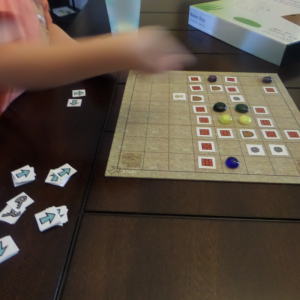
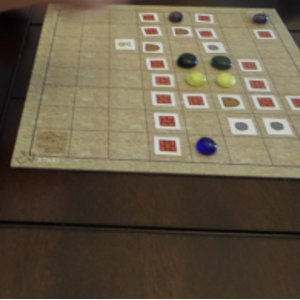
Cropped a pic; updated text

diff --git a/fb.html b/fb.html
@@ -90,7 +90,8 @@
         </div>
         <div class="row">
             <p class="col-md-4">Click on the tent to play a silly game!
-                    It's not like Fair and Beyond at all but it's fun.</p>
+                    It's not like Fair and Beyond at all but it's fun.
+                It works best on a computer.</p>
             <img class="col-md-4" id="tent" src="images/tent.jpg">
             <p class="col-md-4"></p>
         </div>
